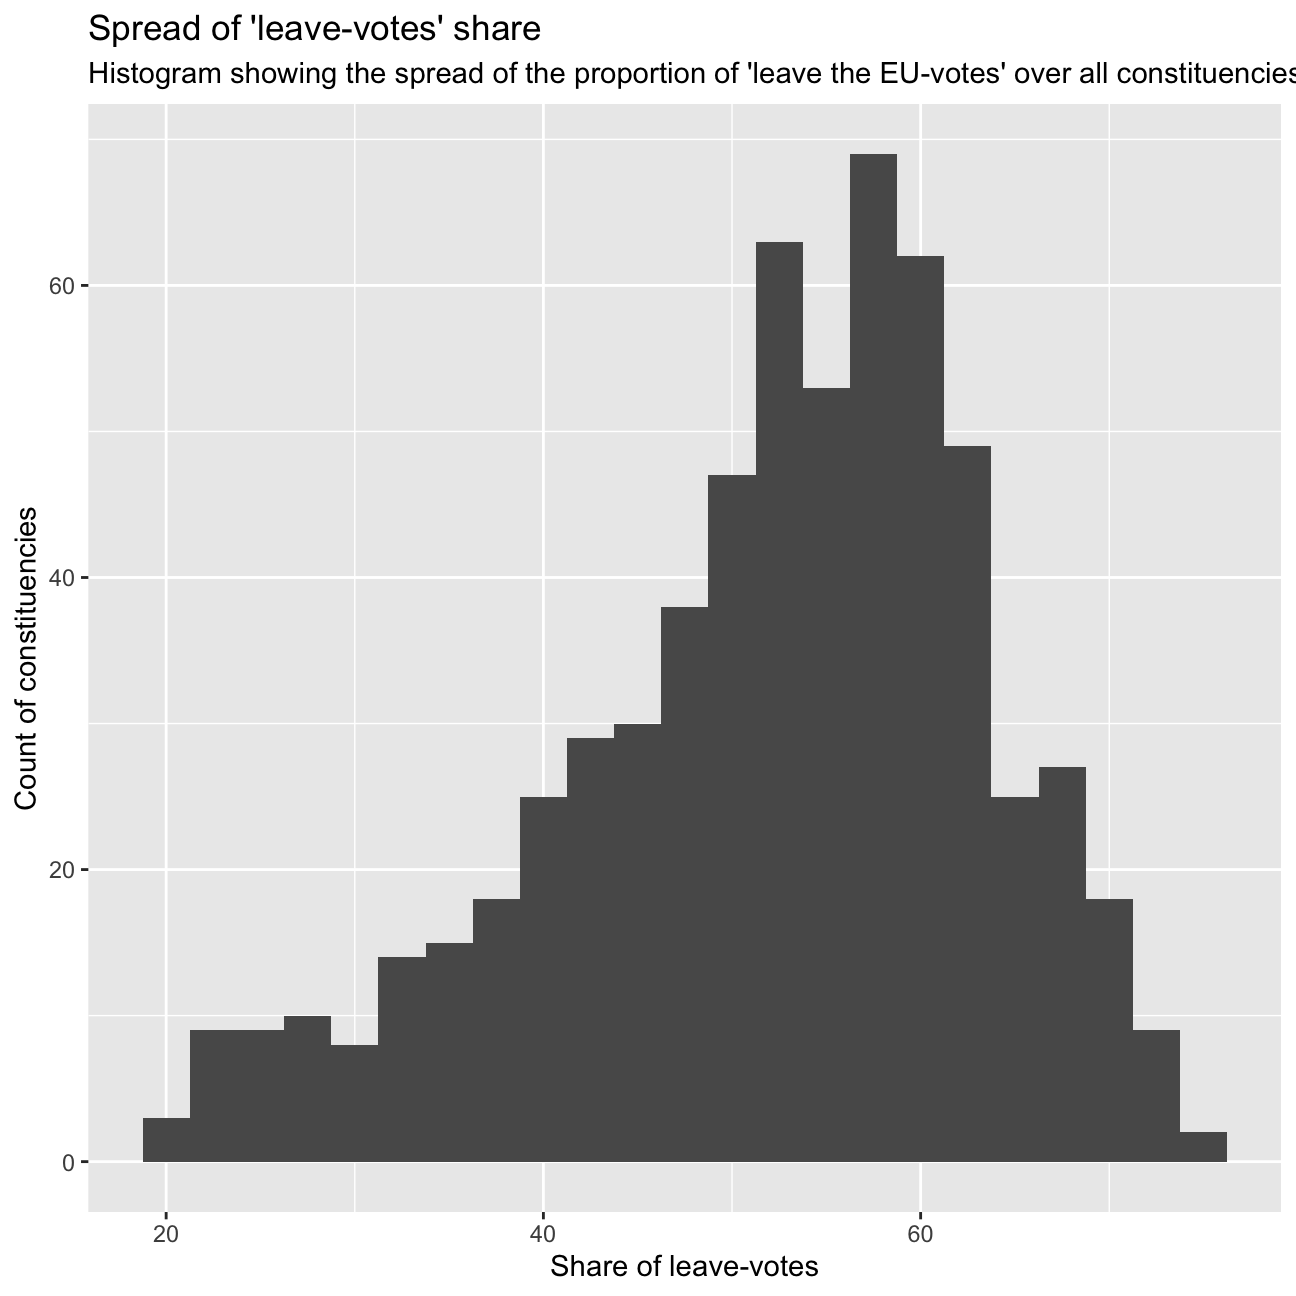
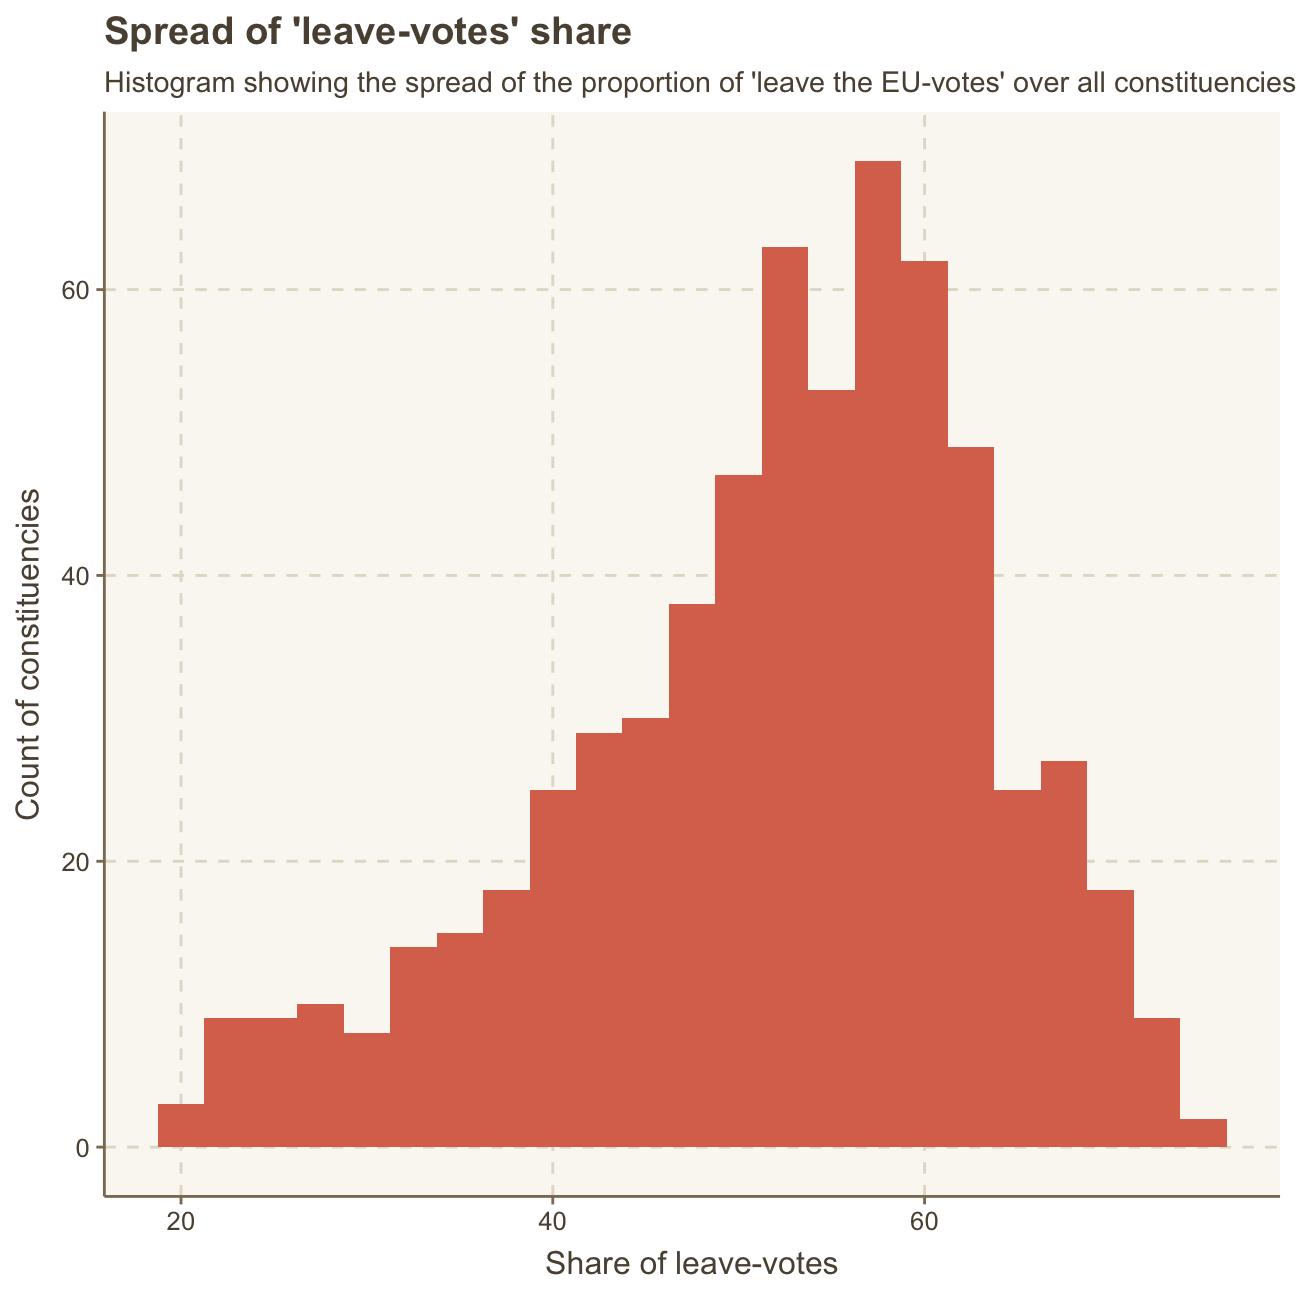
changes to project2

diff --git a/content/projects/project2/index.html b/content/projects/project2/index.html
@@ -308,14 +308,16 @@ We also find that our only character variable <code>Seat</code> has 632 unique v
 </div>
 <div id="visualizations" class="section level2">
 <h2>Visualizations</h2>
+<p>In order to add a the <code>ggthemr</code> <strong>fresh</strong> theme to all the following ggplots, we run this command:</p>
+<pre class="r"><code>ggthemr(&#39;dust&#39;)</code></pre>
 <div id="correlations" class="section level3">
 <h3>Correlations</h3>
 <p>To get a sense of the data and the relationships between the variables, we plot create a <code>ggpairs</code> plot which shows each respective correlation and scatterplot for all two variable pairs.</p>
 <pre class="r"><code>brexit_results %&gt;% 
   select(-Seat, -degree) %&gt;% 
-  GGally::ggpairs(alpha = 0.4) +
+  GGally::ggpairs(alpha = 0.2) +
       theme_minimal()</code></pre>
-<p><img src="/projects/project2/index_files/figure-html/unnamed-chunk-3-1.png" width="648" style="display: block; margin: auto;" /></p>
+<p><img src="/projects/project2/index_files/figure-html/ggpairs-1.png" width="648" style="display: block; margin: auto;" /></p>
 <p>In the following, we describe a few findings based on these plots - no definitive results!</p>
 <p>We find an extremely high positive correlation at 0.85 between <code>leave_share</code> and <code>ukip_2015</code> as well as another significant positive correlations between <code>born_in_uk</code> and <code>leave_share</code>.</p>
 <p>The first observation may show that the majority of UKIP voters was also pro-Brexit. The latter relationship will be further investigated later on.</p>
@@ -332,7 +334,6 @@ We also find that our only character variable <code>Seat</code> has 632 unique v
         subtitle = &quot;Histogram showing the spread of the proportion of &#39;leave the EU-votes&#39; over all constituencies&quot;,
          x = &quot;Share of leave-votes&quot;,
          y = &quot;Count of constituencies&quot;) +
-  #bbc_style()+
   NULL</code></pre>
 <p><img src="/projects/project2/index_files/figure-html/brexit_histogram-1.png" width="648" style="display: block; margin: auto;" /></p>
 <pre class="r"><code>ggplot(brexit_results, aes(x = leave_share)) +
@@ -341,7 +342,6 @@ We also find that our only character variable <code>Seat</code> has 632 unique v
         subtitle = &quot;Density plot showing the spread/density of the proportion of &#39;leave the EU-votes&#39; over all constituencies&quot;,
          x = &quot;Share of leave-votes&quot;,
          y = &quot;Density over all constituencies&quot;) +
-  #bbc_style() +
   NULL</code></pre>
 <p><img src="/projects/project2/index_files/figure-html/brexit_histogram-2.png" width="648" style="display: block; margin: auto;" /></p>
 </div>
@@ -359,12 +359,11 @@ We also find that our only character variable <code>Seat</code> has 632 unique v
 <pre class="r"><code>ggplot(brexit_results, aes(x = born_in_uk, y = leave_share)) +
   geom_point(alpha=0.3) +
   geom_smooth(method = &quot;lm&quot;) +
-  theme_bw() +
   labs(title = &quot;Share of UK-born voters and share of leave-EU voters relationship&quot;,
-       subtitle = &quot;Relationship between the share of voters born in the UK and the share of voters that voted to leave the EU over all constituencies&quot;,
+       subtitle = &quot;Relationship between the share of voters born in the UK \n and the share of voters that voted to leave the EU over all constituencies&quot;,
        x = &quot;Share of UK-born voters&quot;,
        y = &quot;Share of leave-voters&quot;) +
-  
+   
   NULL</code></pre>
 <p><img src="/projects/project2/index_files/figure-html/brexit_immigration_plot-1.png" width="648" style="display: block; margin: auto;" /></p>
 <p>Looking at the above graph and the derived correlation of 0.49, a positive relationship between the share of UK-born voters and voters that voted to leave the EU becomes visible. This means that the higher the share of UK-born voters a constituency in the UK has, the more likely the constituency is to also have a higher share of pro-Brexit voters. On the other hand, the higher the share of voters that were born outside of the UK belong to/vote in a constitucency, the lower the share of voters in favour of staying in the EU.</p>
@@ -382,7 +381,9 @@ Generally, the points in the plot clearly cluster in the upper right corner, sho
             select(Seat, con_2015, lab_2015, ld_2015, ukip_2015, leave_share) %&gt;%      #eliminate irrelevant variables
             pivot_longer(2:5, names_to = &quot;party&quot;, values_to = &quot;percent&quot; )             #pivot longer to summarize party variables</code></pre>
 <p>With the manipulated data set, we can now reproduce the plot as above.</p>
-<pre class="r"><code>colours &lt;- c(&quot;#0087dc&quot;, &quot;#d50000&quot;, &quot;#FDBB30&quot;, &quot;#EFE600&quot;) #define vector with party-specific colours
+<pre class="r"><code>ggthemr_reset() #reset &#39;fresh&#39; theme because we will add own aes to the next plot
+
+colours &lt;- c(&quot;#0087dc&quot;, &quot;#d50000&quot;, &quot;#FDBB30&quot;, &quot;#EFE600&quot;) #define vector with party-specific colours
 
 brexit_plot &lt;- brexit %&gt;% 
                 ggplot(aes(x=percent, y=leave_share)) +
@@ -407,9 +408,13 @@ brexit_plot &lt;- brexit %&gt;%
                      y = &quot;Leave % in the 2016 Brexit referendum&quot;) +
                 NULL
 
-ggsave(&quot;brexit_plot.png&quot;, plot = brexit_plot, width = 11, height = 7, path = here::here(&quot;data&quot;, &quot;images&quot;))
-knitr::include_graphics(here::here(&quot;data&quot;, &quot;images&quot;, &quot;brexit_plot.png&quot;))</code></pre>
-<p><img src="/Users/MarieCordes1/myrepo/mywebsite/data/images/brexit_plot.png" width="1650" style="display: block; margin: auto;" /></p>
+#save and scale differently if needed
+#ggsave(&quot;brexit_plot.png&quot;, plot = brexit_plot, width = 11, height = 7, path = here::here(&quot;data&quot;, &quot;images&quot;))
+#knitr::include_graphics(here::here(&quot;data&quot;, &quot;images&quot;, &quot;brexit_plot.png&quot;))
+
+#otherwise just print as it is
+brexit_plot</code></pre>
+<p><img src="/projects/project2/index_files/figure-html/plot-1.png" width="648" style="display: block; margin: auto;" /></p>
 <p>In this final analysis we plot the respective share of voters for the Conservative Party, Labour Party, Liberal Democrats and UKIP per constituency in 2015 compared to the respective leave share in the Brexit referendum in 2016.</p>
 <p>We find that two positive relationships and two negative relationships. More precisely, we find a steep regression line between the UKIP share and leave-share and a slightly upward facing slope for the regression line between the Conservative Party share and the leave share. This would indicate that the higher the share of UKIP voters in a constituency, the higher the share of pro-Brexit voters.</p>
 <p>Despite the regression line being slightly positive, the scatterplot of the Conservative party does not allow for a clear interpretation. This is also true for the Labour Party, despite this regression line being slightly downward sloped.</p>

diff --git a/public/projects/project2/index.html b/public/projects/project2/index.html
@@ -373,14 +373,16 @@ We also find that our only character variable <code>Seat</code> has 632 unique v
 </div>
 <div id="visualizations" class="section level2">
 <h2>Visualizations</h2>
+<p>In order to add a the <code>ggthemr</code> <strong>fresh</strong> theme to all the following ggplots, we run this command:</p>
+<pre class="r"><code>ggthemr(&#39;dust&#39;)</code></pre>
 <div id="correlations" class="section level3">
 <h3>Correlations</h3>
 <p>To get a sense of the data and the relationships between the variables, we plot create a <code>ggpairs</code> plot which shows each respective correlation and scatterplot for all two variable pairs.</p>
 <pre class="r"><code>brexit_results %&gt;% 
   select(-Seat, -degree) %&gt;% 
-  GGally::ggpairs(alpha = 0.4) +
+  GGally::ggpairs(alpha = 0.2) +
       theme_minimal()</code></pre>
-<p><img src="/projects/project2/index_files/figure-html/unnamed-chunk-3-1.png" width="648" style="display: block; margin: auto;" /></p>
+<p><img src="/projects/project2/index_files/figure-html/ggpairs-1.png" width="648" style="display: block; margin: auto;" /></p>
 <p>In the following, we describe a few findings based on these plots - no definitive results!</p>
 <p>We find an extremely high positive correlation at 0.85 between <code>leave_share</code> and <code>ukip_2015</code> as well as another significant positive correlations between <code>born_in_uk</code> and <code>leave_share</code>.</p>
 <p>The first observation may show that the majority of UKIP voters was also pro-Brexit. The latter relationship will be further investigated later on.</p>
@@ -397,7 +399,6 @@ We also find that our only character variable <code>Seat</code> has 632 unique v
         subtitle = &quot;Histogram showing the spread of the proportion of &#39;leave the EU-votes&#39; over all constituencies&quot;,
          x = &quot;Share of leave-votes&quot;,
          y = &quot;Count of constituencies&quot;) +
-  #bbc_style()+
   NULL</code></pre>
 <p><img src="/projects/project2/index_files/figure-html/brexit_histogram-1.png" width="648" style="display: block; margin: auto;" /></p>
 <pre class="r"><code>ggplot(brexit_results, aes(x = leave_share)) +
@@ -406,7 +407,6 @@ We also find that our only character variable <code>Seat</code> has 632 unique v
         subtitle = &quot;Density plot showing the spread/density of the proportion of &#39;leave the EU-votes&#39; over all constituencies&quot;,
          x = &quot;Share of leave-votes&quot;,
          y = &quot;Density over all constituencies&quot;) +
-  #bbc_style() +
   NULL</code></pre>
 <p><img src="/projects/project2/index_files/figure-html/brexit_histogram-2.png" width="648" style="display: block; margin: auto;" /></p>
 </div>
@@ -424,12 +424,11 @@ We also find that our only character variable <code>Seat</code> has 632 unique v
 <pre class="r"><code>ggplot(brexit_results, aes(x = born_in_uk, y = leave_share)) +
   geom_point(alpha=0.3) +
   geom_smooth(method = &quot;lm&quot;) +
-  theme_bw() +
   labs(title = &quot;Share of UK-born voters and share of leave-EU voters relationship&quot;,
-       subtitle = &quot;Relationship between the share of voters born in the UK and the share of voters that voted to leave the EU over all constituencies&quot;,
+       subtitle = &quot;Relationship between the share of voters born in the UK \n and the share of voters that voted to leave the EU over all constituencies&quot;,
        x = &quot;Share of UK-born voters&quot;,
        y = &quot;Share of leave-voters&quot;) +
-  
+   
   NULL</code></pre>
 <p><img src="/projects/project2/index_files/figure-html/brexit_immigration_plot-1.png" width="648" style="display: block; margin: auto;" /></p>
 <p>Looking at the above graph and the derived correlation of 0.49, a positive relationship between the share of UK-born voters and voters that voted to leave the EU becomes visible. This means that the higher the share of UK-born voters a constituency in the UK has, the more likely the constituency is to also have a higher share of pro-Brexit voters. On the other hand, the higher the share of voters that were born outside of the UK belong to/vote in a constitucency, the lower the share of voters in favour of staying in the EU.</p>
@@ -447,7 +446,9 @@ Generally, the points in the plot clearly cluster in the upper right corner, sho
             select(Seat, con_2015, lab_2015, ld_2015, ukip_2015, leave_share) %&gt;%      #eliminate irrelevant variables
             pivot_longer(2:5, names_to = &quot;party&quot;, values_to = &quot;percent&quot; )             #pivot longer to summarize party variables</code></pre>
 <p>With the manipulated data set, we can now reproduce the plot as above.</p>
-<pre class="r"><code>colours &lt;- c(&quot;#0087dc&quot;, &quot;#d50000&quot;, &quot;#FDBB30&quot;, &quot;#EFE600&quot;) #define vector with party-specific colours
+<pre class="r"><code>ggthemr_reset() #reset &#39;fresh&#39; theme because we will add own aes to the next plot
+
+colours &lt;- c(&quot;#0087dc&quot;, &quot;#d50000&quot;, &quot;#FDBB30&quot;, &quot;#EFE600&quot;) #define vector with party-specific colours
 
 brexit_plot &lt;- brexit %&gt;% 
                 ggplot(aes(x=percent, y=leave_share)) +
@@ -472,9 +473,13 @@ brexit_plot &lt;- brexit %&gt;%
                      y = &quot;Leave % in the 2016 Brexit referendum&quot;) +
                 NULL
 
-ggsave(&quot;brexit_plot.png&quot;, plot = brexit_plot, width = 11, height = 7, path = here::here(&quot;data&quot;, &quot;images&quot;))
-knitr::include_graphics(here::here(&quot;data&quot;, &quot;images&quot;, &quot;brexit_plot.png&quot;))</code></pre>
-<p><img src="/Users/MarieCordes1/myrepo/mywebsite/data/images/brexit_plot.png" width="1650" style="display: block; margin: auto;" /></p>
+#save and scale differently if needed
+#ggsave(&quot;brexit_plot.png&quot;, plot = brexit_plot, width = 11, height = 7, path = here::here(&quot;data&quot;, &quot;images&quot;))
+#knitr::include_graphics(here::here(&quot;data&quot;, &quot;images&quot;, &quot;brexit_plot.png&quot;))
+
+#otherwise just print as it is
+brexit_plot</code></pre>
+<p><img src="/projects/project2/index_files/figure-html/plot-1.png" width="648" style="display: block; margin: auto;" /></p>
 <p>In this final analysis we plot the respective share of voters for the Conservative Party, Labour Party, Liberal Democrats and UKIP per constituency in 2015 compared to the respective leave share in the Brexit referendum in 2016.</p>
 <p>We find that two positive relationships and two negative relationships. More precisely, we find a steep regression line between the UKIP share and leave-share and a slightly upward facing slope for the regression line between the Conservative Party share and the leave share. This would indicate that the higher the share of UKIP voters in a constituency, the higher the share of pro-Brexit voters.</p>
 <p>Despite the regression line being slightly positive, the scatterplot of the Conservative party does not allow for a clear interpretation. This is also true for the Labour Party, despite this regression line being slightly downward sloped.</p>
